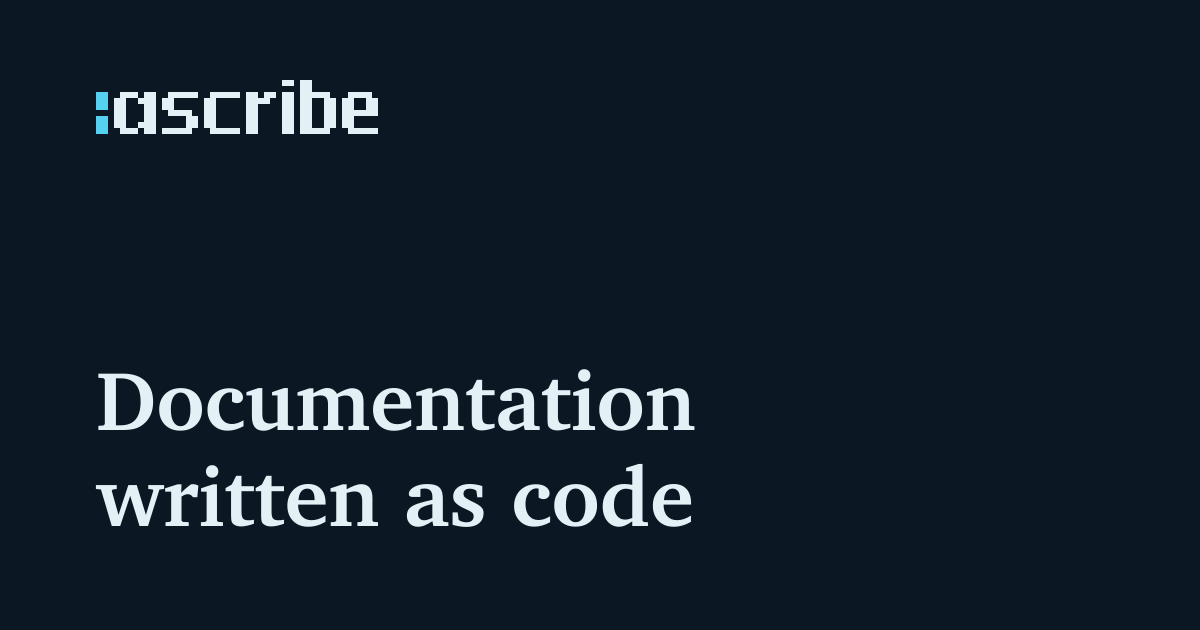
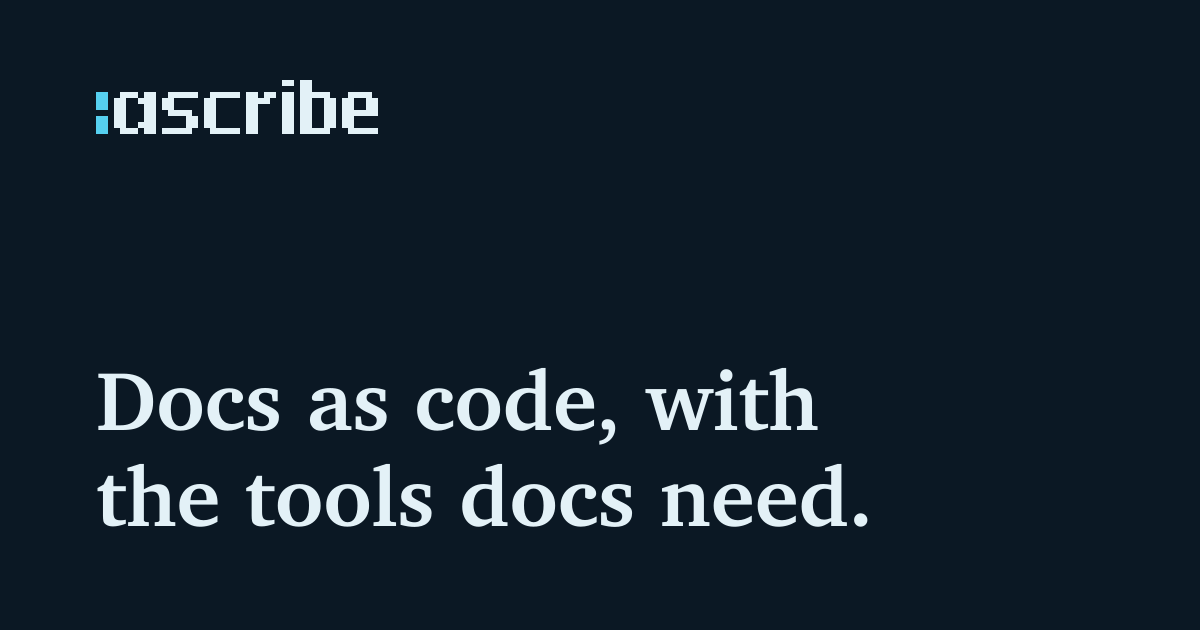
Lead the landing page with the story's headline
The hero's heading is "Docs as code, with the tools docs need.", and its
sentence, and the page's description, are the story's sentence that says
what Ascribe is. The landing page's social card is redrawn from the new
heading, and the site's test reads the headline.

Changed region(s): [[0.0617, 0.7238, 0.74, 0.8444], [0.185, 0.573, 0.6783, 0.6937]]

diff --git a/site/test/e2e.test.ts b/site/test/e2e.test.ts
@@ -520,7 +520,7 @@ test("the landing page reads without a script", async () => {
   const page = await context.newPage();
   await page.goto(server.url + "/");
   for (const text of [
-    "Documentation written as code",
+    "Docs as code, with the tools docs need.",
     "Install Quill",
     "Checked",
     "Reviewed as pages",

diff --git a/site/home/content/index.md b/site/home/content/index.md
@@ -1,16 +1,16 @@
 ---
 type: page
 title: Ascribe
-description: Documentation written as code, checked like code, and built into a website, plain Markdown, and JSON.
+description: "Ascribe is a toolchain for documentation written as code: Markdown with the structure docs need, checked as you write, and built into a website, plain Markdown, and JSON."
 intended:
   - check: title-heading-differs
-    reason: The home page's title is the site's name, and its top heading is the tagline in the hero.
+    reason: The home page's title is the site's name, and its top heading is the headline in the hero.
 ---
 
 @hero-banner {status=early}:
-# Documentation written as code
+# Docs as code, with the tools docs need.
 
-Ascribe is Markdown with a small set of directives for the structure documentation needs, a content model that says what a page may use, and one compiler that checks the pages and builds them into a website, plain Markdown, and JSON.
+Ascribe is a toolchain for documentation written as code: Markdown with the structure docs need, checked as you write, and built into a website, plain Markdown, and JSON.
 @end
 
 ## A page, and what readers see
